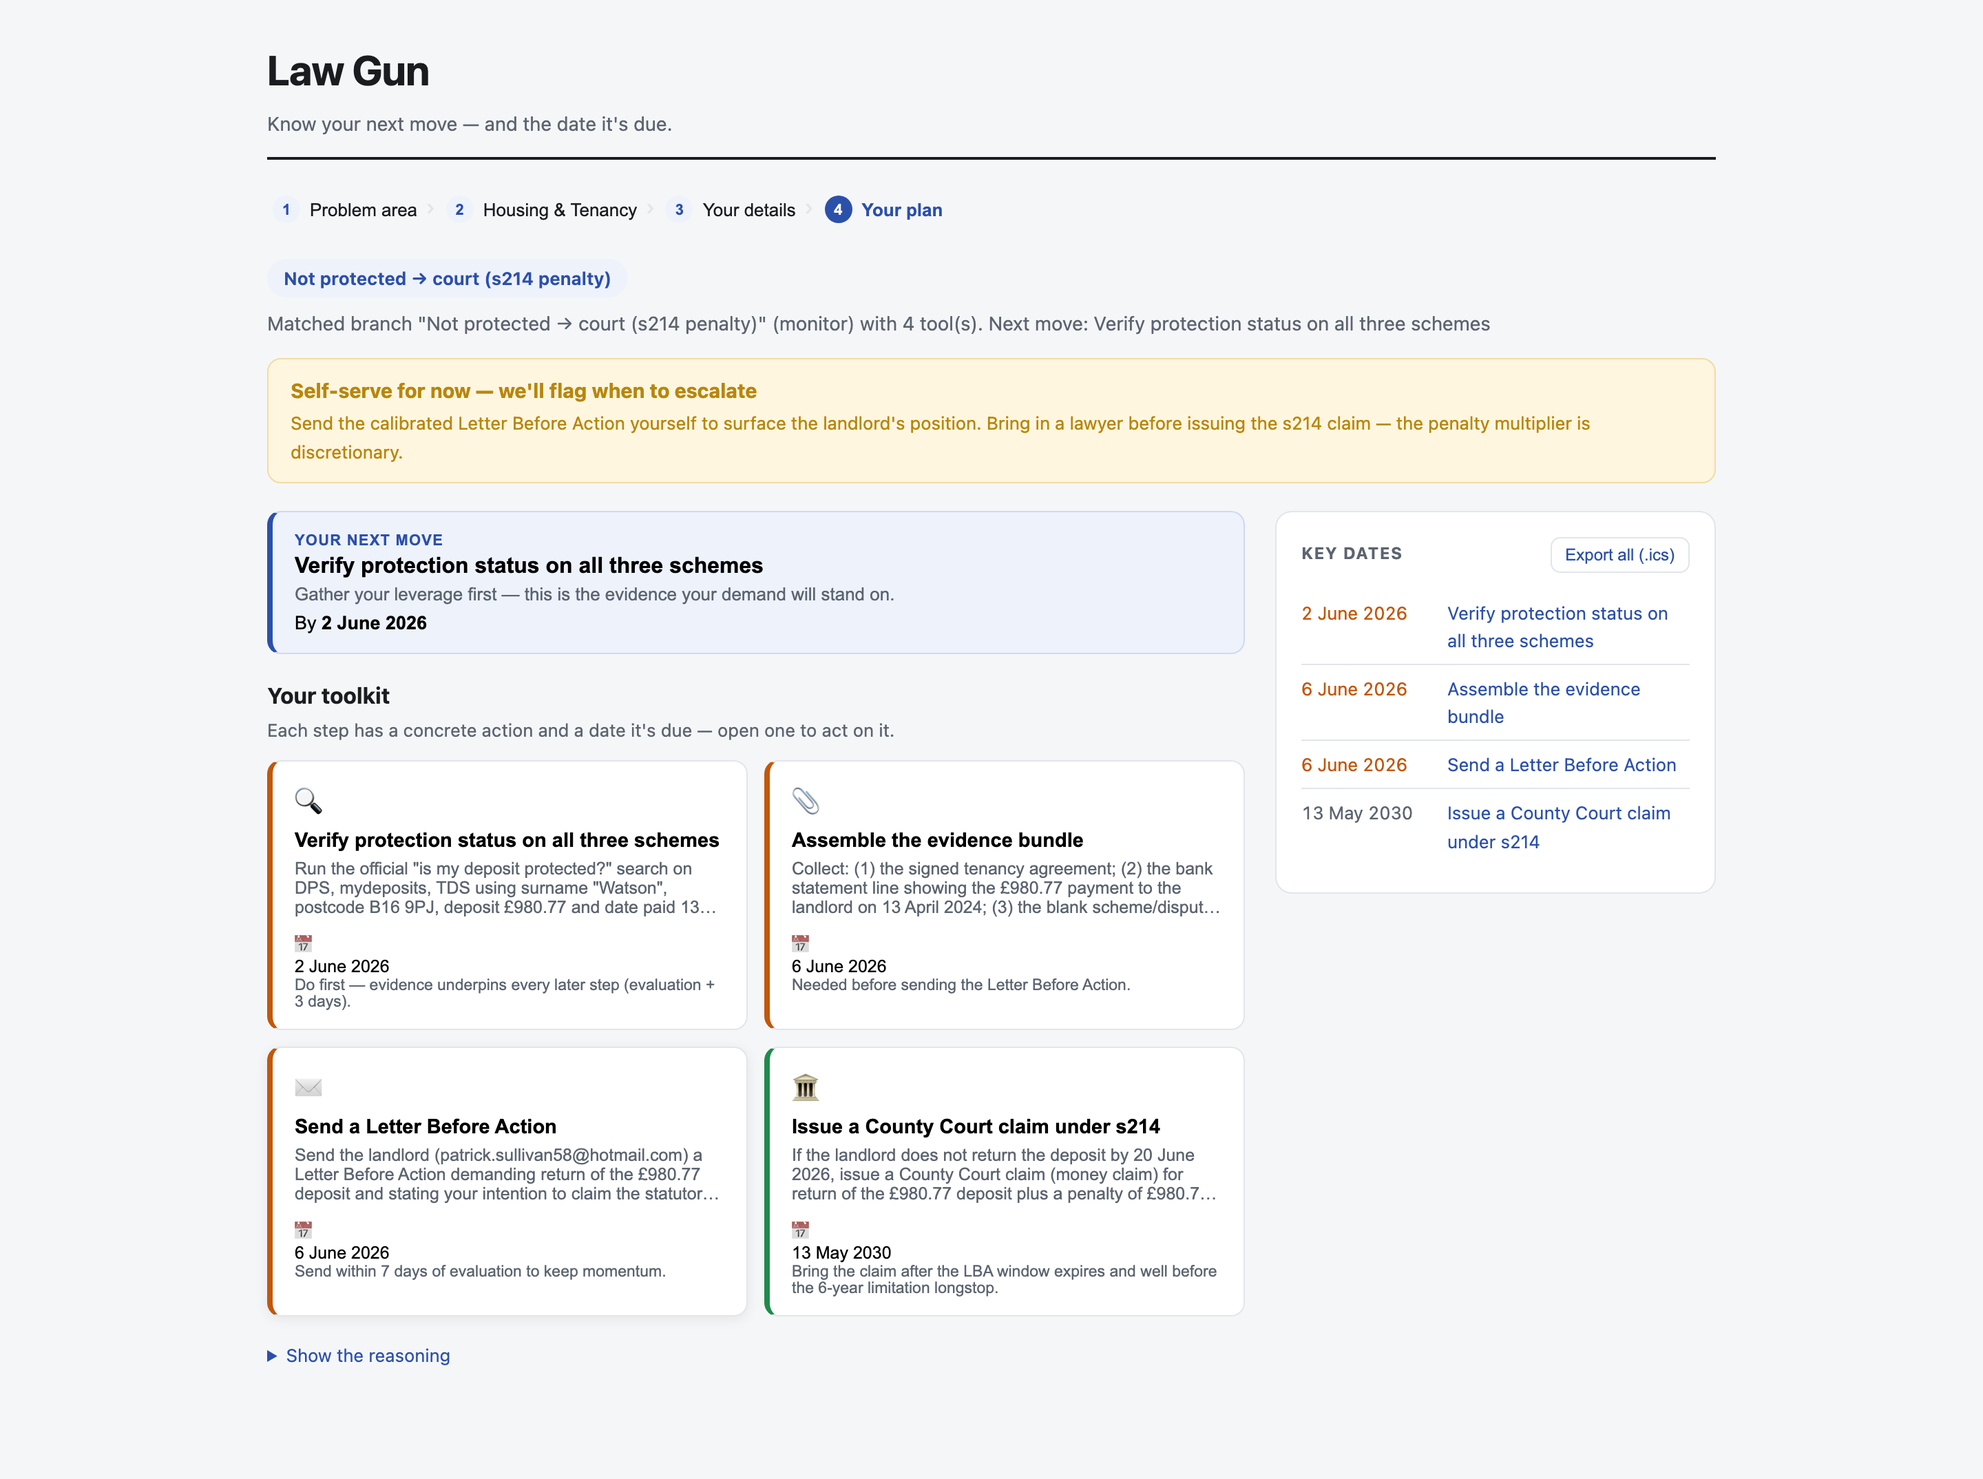
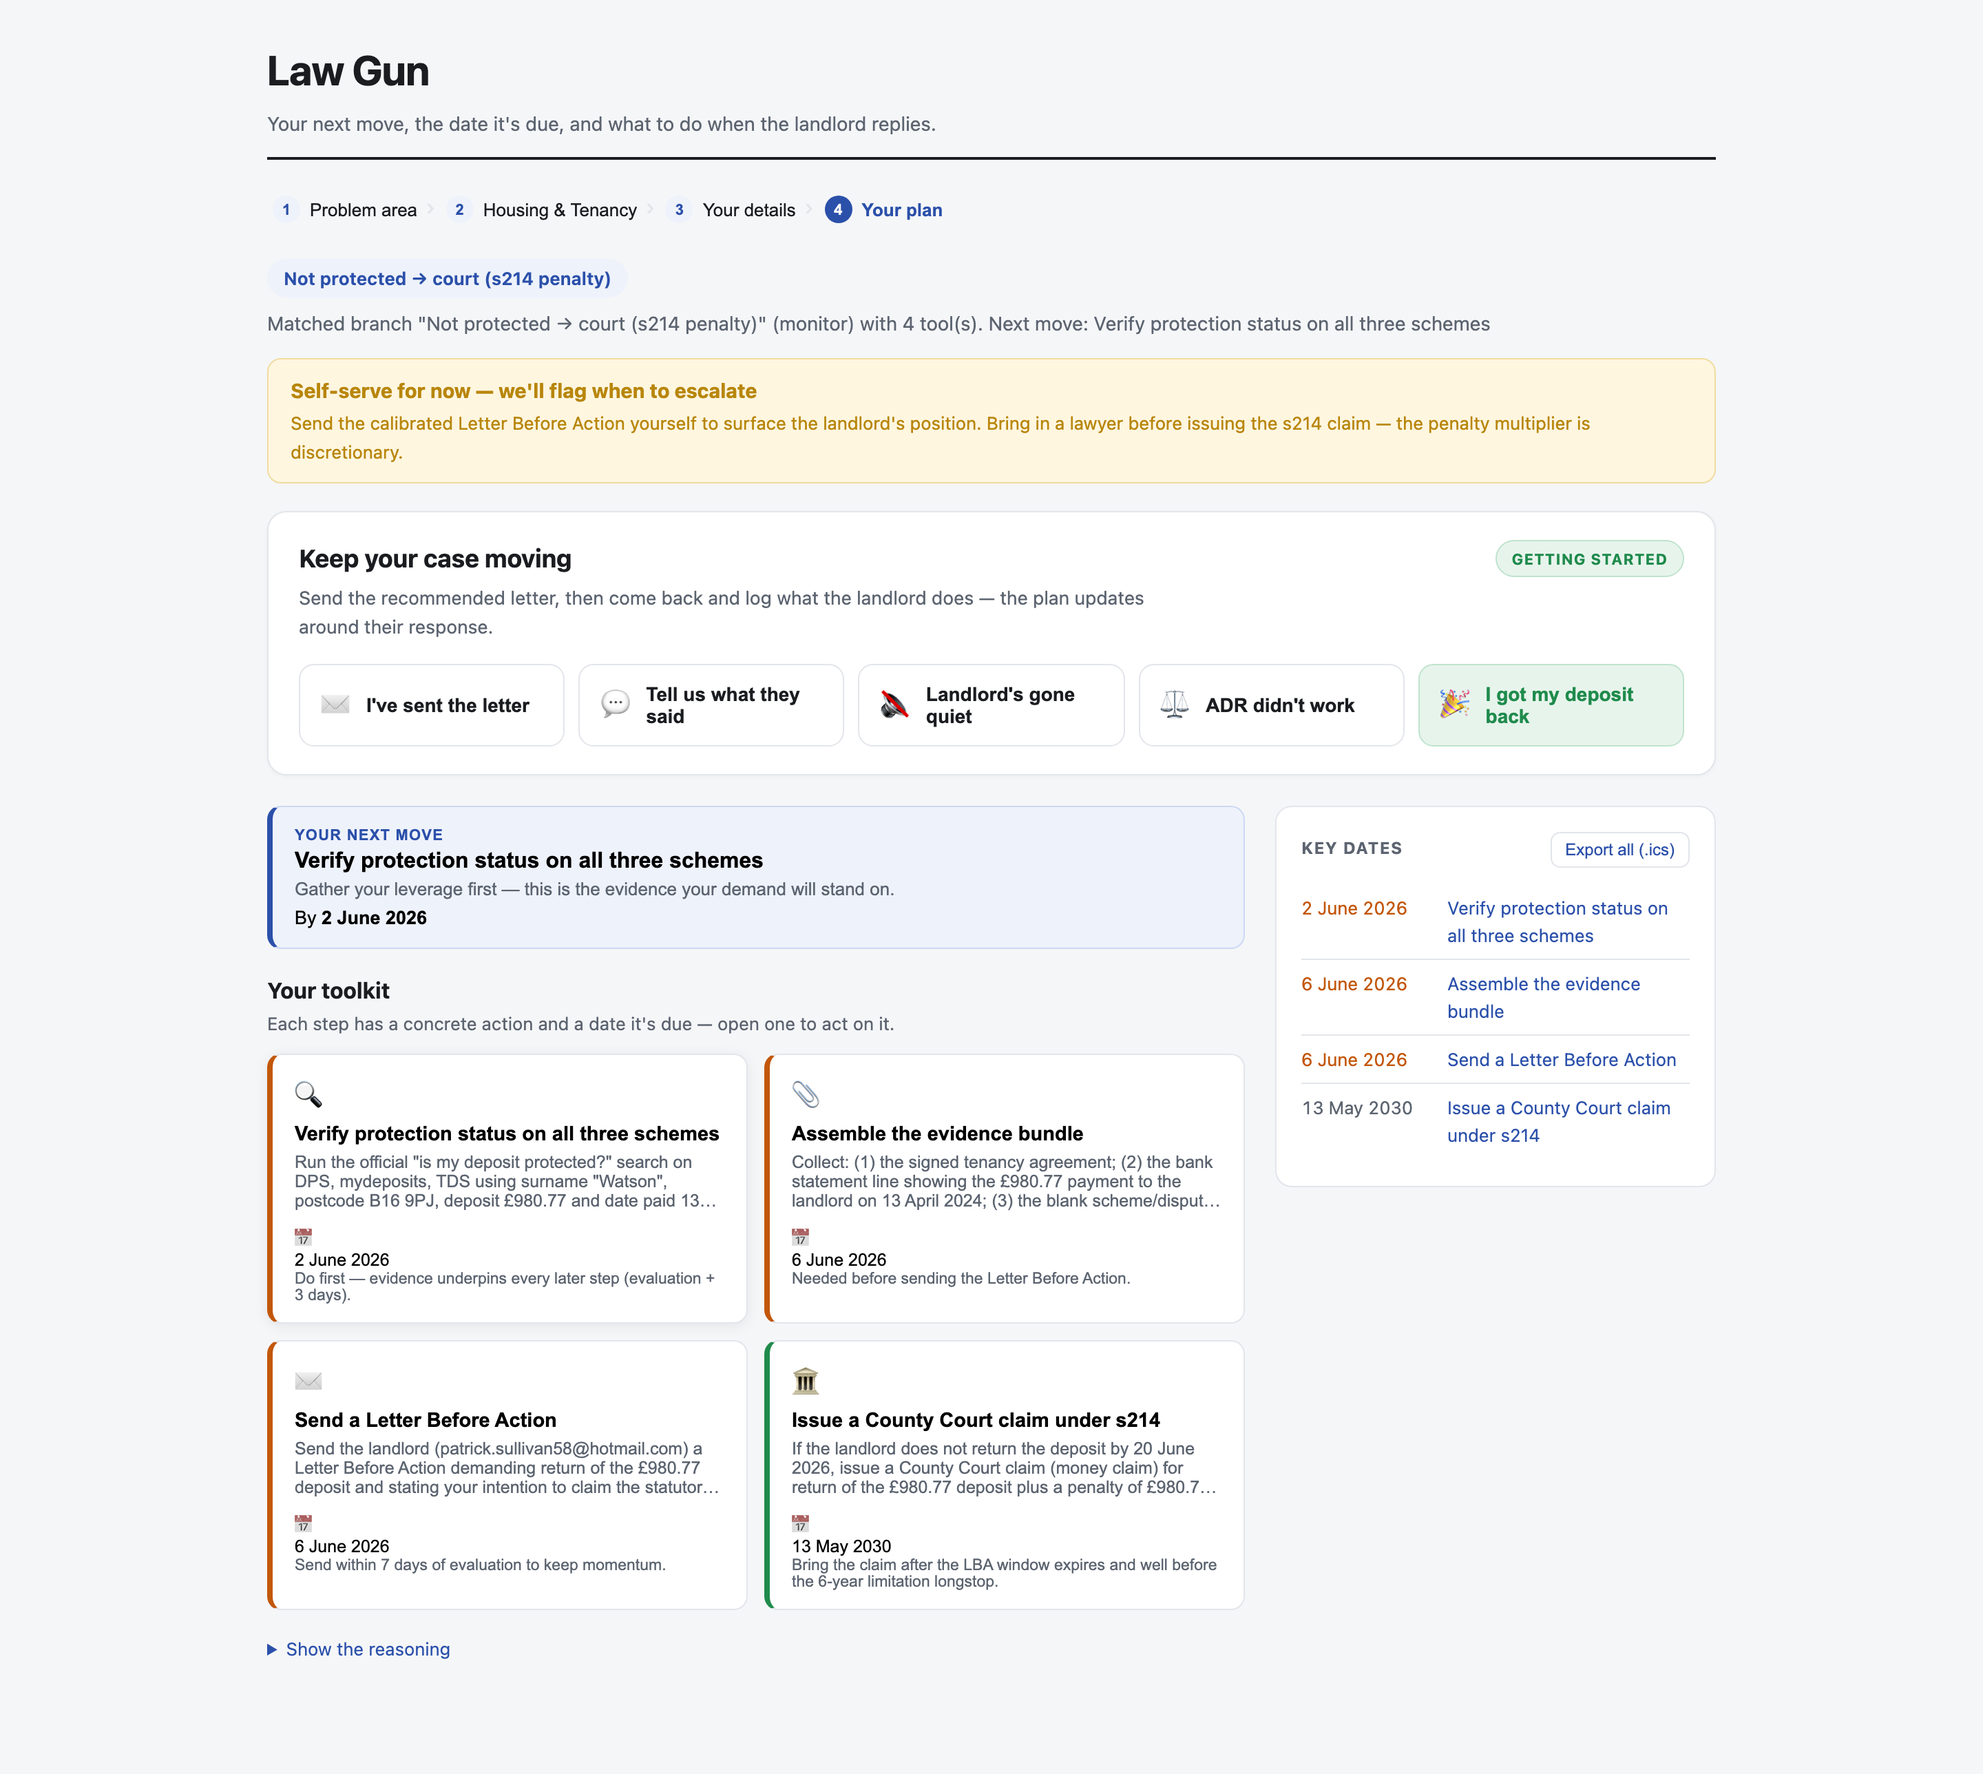
Fix up UI

diff --git a/recourse-poc/frontend/src/styles.css b/recourse-poc/frontend/src/styles.css
@@ -206,6 +206,23 @@ body {
 .prov.bad .prov-mark {
   color: var(--red);
 }
+/* Inline citation reference shown in the letter body */
+.prov-cite {
+  font: inherit;
+  font-size: 0.82em;
+  font-style: normal;
+  font-family: -apple-system, BlinkMacSystemFont, "Segoe UI", sans-serif;
+  color: var(--green);
+  background: none;
+  border: none;
+  padding: 0;
+  cursor: pointer;
+  white-space: nowrap;
+  vertical-align: baseline;
+}
+.prov-cite:hover {
+  text-decoration: underline;
+}
 
 /* Sidebar card */
 .sidebar {
@@ -496,11 +513,24 @@ body {
 .bool-opt { flex: 1; border: 1px solid var(--line); background: var(--paper); border-radius: 7px; padding: 8px; cursor: pointer; font: inherit; }
 .bool-opt.on { border-color: var(--accent); background: var(--accent-soft); color: var(--accent); font-weight: 650; }
 
-/* Uploader */
-.uploader { border: 1px dashed var(--line); border-radius: 10px; margin-bottom: 18px; }
-.uploader-toggle { width: 100%; text-align: left; border: none; background: none; padding: 12px 14px; cursor: pointer; font-size: 13.5px; font-weight: 600; color: var(--accent); }
-.uploader-body { padding: 0 14px 14px; }
-.uploader-msg { font-size: 13px; color: var(--green); }
+/* Uploader — prominent drop zone (the hero of intake) */
+.uploader {
+  display: flex; align-items: center; gap: 16px;
+  border: 2px dashed #cdd9f3; background: var(--accent-soft);
+  border-radius: 14px; padding: 18px 20px; margin-bottom: 20px; cursor: pointer;
+  transition: border-color 0.15s, box-shadow 0.15s;
+}
+.uploader:hover { border-color: var(--accent); box-shadow: 0 3px 14px rgba(43,80,170,0.12); }
+.uploader-icon { font-size: 34px; line-height: 1; flex: 0 0 auto; }
+.uploader-text { flex: 1; }
+.uploader-title { font-size: 16.5px; font-weight: 700; color: var(--accent); }
+.uploader-sub { font-size: 13px; color: var(--muted); margin-top: 3px; max-width: 620px; }
+.uploader-msg { font-size: 13.5px; color: var(--green); font-weight: 600; margin-top: 8px; }
+.uploader-msg.busy { color: var(--accent); }
+.uploader-cta { flex: 0 0 auto; background: var(--accent); color: #fff; border-radius: 8px; padding: 10px 18px; font-size: 14px; font-weight: 600; }
+
+/* "or fill it in yourself" divider under the uploader */
+.intake-or { text-align: center; color: var(--muted); font-size: 12.5px; text-transform: uppercase; letter-spacing: 0.6px; margin: 4px 0 14px; }
 
 /* Assessment */
 .assessment-head { margin-bottom: 14px; }
@@ -594,24 +624,31 @@ body {
 }
 
 /* ─────────────────────── Negotiation loop ─────────────────────── */
-.neg-panel { background: var(--paper); border: 1px solid var(--line); border-radius: 12px; padding: 16px 18px; margin-bottom: 20px; }
-.neg-head { display: flex; align-items: center; justify-content: space-between; }
-.neg-head h3 { margin: 0; font-size: 15px; }
-.neg-stage { font-size: 11px; font-weight: 700; text-transform: uppercase; letter-spacing: 0.5px; border-radius: 999px; padding: 3px 10px; background: var(--bg); color: var(--muted); border: 1px solid var(--line); }
+.neg-panel { background: var(--paper); border: 1px solid var(--line); border-radius: 14px; padding: 20px 22px; margin-bottom: 22px; box-shadow: 0 1px 3px rgba(0,0,0,0.04); }
+.neg-head { display: flex; align-items: flex-start; justify-content: space-between; gap: 12px; margin-bottom: 16px; }
+.neg-head h3 { margin: 0 0 4px; font-size: 18px; }
+.neg-stage { flex: 0 0 auto; font-size: 11px; font-weight: 700; text-transform: uppercase; letter-spacing: 0.5px; border-radius: 999px; padding: 4px 11px; background: var(--green-soft); color: var(--green); border: 1px solid #bfe3cd; }
 .neg-stage.stage-post_letter { background: #fff6e0; color: var(--amber); border-color: #f0dca0; }
-.neg-stage.stage-post_adr { background: #ffe9d6; color: #c2570a; }
-.neg-status-line { color: var(--muted); font-size: 13px; margin: 6px 0 12px; }
+.neg-stage.stage-post_adr { background: #ffe9d6; color: #c2570a; border-color: #f3c79b; }
+.neg-status-line { color: var(--muted); font-size: 13.5px; margin: 0; max-width: 640px; }
 .neg-status { display: flex; flex-direction: column; gap: 2px; border-radius: 8px; padding: 10px 14px; }
 .neg-status strong { font-size: 15px; }
 
-.awaiting-prompt { background: var(--accent-soft); border: 1px solid #cdd9f3; border-radius: 10px; padding: 12px 14px; margin-bottom: 12px; }
-.awaiting-prompt strong { display: block; margin-bottom: 8px; }
-.awaiting-actions { display: flex; gap: 8px; flex-wrap: wrap; }
+.awaiting-prompt { background: var(--accent-soft); border: 1px solid #cdd9f3; border-radius: 12px; padding: 14px 16px; margin-bottom: 14px; }
+.awaiting-prompt strong { display: block; margin-bottom: 10px; font-size: 15px; }
+.awaiting-actions { display: flex; gap: 10px; flex-wrap: wrap; }
 
-.neg-actions { display: flex; flex-wrap: wrap; gap: 8px; }
-.ghost-btn { border: 1px solid var(--line); background: var(--paper); color: var(--ink); border-radius: 8px; padding: 8px 12px; font-size: 13px; cursor: pointer; }
-.ghost-btn:hover { border-color: var(--accent); color: var(--accent); }
-.ghost-btn.good:hover { border-color: var(--green); color: var(--green); }
+.neg-actions { display: grid; grid-template-columns: repeat(auto-fit, minmax(168px, 1fr)); gap: 10px; }
+.ghost-btn {
+  display: flex; align-items: center; gap: 10px; text-align: left;
+  border: 1px solid var(--line); background: var(--paper); color: var(--ink);
+  border-radius: 11px; padding: 13px 15px; font-size: 14px; font-weight: 600;
+  cursor: pointer; transition: border-color 0.15s, box-shadow 0.15s, transform 0.05s;
+}
+.ghost-btn .ico { font-size: 21px; line-height: 1; }
+.ghost-btn:hover { border-color: var(--accent); box-shadow: 0 3px 12px rgba(43,80,170,0.12); transform: translateY(-1px); }
+.ghost-btn.good { border-color: #bfe3cd; background: var(--green-soft); color: var(--green); }
+.ghost-btn.good:hover { border-color: var(--green); box-shadow: 0 3px 12px rgba(31,139,76,0.16); }
 .primary-btn.full { width: 100%; margin-top: 10px; }
 
 /* Response logger */

diff --git a/recourse-poc/frontend/src/components/DocUploadAccelerator.tsx b/recourse-poc/frontend/src/components/DocUploadAccelerator.tsx
@@ -30,19 +30,20 @@ interface Props {
 }
 
 export default function DocUploadAccelerator({ domain, onExtracted }: Props) {
-  const [open, setOpen] = useState(false);
   const [busy, setBusy] = useState(false);
   const [msg, setMsg] = useState<string | null>(null);
+  const [count, setCount] = useState(0);
 
   async function onFiles(files: FileList | null) {
     if (!files || files.length === 0) return;
     setBusy(true);
     setMsg(null);
+    setCount(files.length);
     try {
       const docs = await Promise.all(Array.from(files).map(toDocInput));
       const result = await extractFacts(domain, docs);
       onExtracted(result.facts);
-      setMsg(`Pre-filled from ${docs.length} document${docs.length > 1 ? "s" : ""} (${result.provider}). Check the answers below.`);
+      setMsg(`✓ Read ${docs.length} document${docs.length > 1 ? "s" : ""} and filled in your answers below — have a quick check.`);
     } catch (e) {
       setMsg("Couldn't read those documents — please fill the form in manually. " + String(e));
     } finally {
@@ -51,21 +52,27 @@ export default function DocUploadAccelerator({ domain, onExtracted }: Props) {
   }
 
   return (
-    <div className="uploader">
-      <button type="button" className="uploader-toggle" onClick={() => setOpen((o) => !o)}>
-        {open ? "▾" : "▸"} Have the paperwork? Upload it to fill this in automatically
-      </button>
-      {open && (
-        <div className="uploader-body">
-          <p className="field-help">
-            Add your tenancy agreement, a bank statement showing the deposit, and any deposit-scheme search
-            screenshots. We read them and pre-fill the answers for you to check — nothing is sent anywhere.
-          </p>
-          <input type="file" multiple accept=".pdf,.png,.jpg,.jpeg" disabled={busy} onChange={(e) => onFiles(e.target.files)} />
-          {busy && <div className="loading">Reading your documents…</div>}
-          {msg && <p className="uploader-msg">{msg}</p>}
+    <label className="uploader" htmlFor="doc-upload">
+      <div className="uploader-icon">📎</div>
+      <div className="uploader-text">
+        <div className="uploader-title">Skip the typing — upload your paperwork</div>
+        <div className="uploader-sub">
+          Drop your tenancy agreement, a bank statement showing the deposit, and your deposit-scheme
+          screenshots. Law Gun reads them and fills this in for you.
         </div>
-      )}
-    </div>
+        {busy && <div className="uploader-msg busy">Reading your {count} document{count > 1 ? "s" : ""}…</div>}
+        {msg && <div className="uploader-msg">{msg}</div>}
+      </div>
+      <input
+        id="doc-upload"
+        type="file"
+        multiple
+        accept=".pdf,.png,.jpg,.jpeg"
+        disabled={busy}
+        onChange={(e) => onFiles(e.target.files)}
+        style={{ display: "none" }}
+      />
+      <span className="uploader-cta">Choose files</span>
+    </label>
   );
 }

diff --git a/recourse-poc/frontend/src/components/NegotiationPanel.tsx b/recourse-poc/frontend/src/components/NegotiationPanel.tsx
@@ -41,20 +41,23 @@ export default function NegotiationPanel({ neg }: { neg: NegotiationApi }) {
   return (
     <div className="neg-panel">
       <div className="neg-head">
-        <h3>Your negotiation</h3>
+        <div>
+          <h3>Keep your case moving</h3>
+          <p className="neg-status-line">{describe(neg)}</p>
+        </div>
         <span className={"neg-stage stage-" + neg.stage}>{STAGE_LABEL[neg.stage]}</span>
       </div>
-      <p className="neg-status-line">{describe(neg)}</p>
 
       {neg.awaiting && (
         <div className="awaiting-prompt">
           <strong>Has the landlord replied?</strong>
           <div className="awaiting-actions">
             <button type="button" className="primary-btn" onClick={() => setLogging(true)}>
-              Log their reply
+              Yes — log their reply
             </button>
             <button type="button" className="ghost-btn" onClick={neg.onNoResponse}>
-              No — nothing by {formatDate(neg.awaiting.dueBy)}
+              <span className="ico">🔇</span>
+              <span>No reply by {formatDate(neg.awaiting.dueBy)}</span>
             </button>
           </div>
         </div>
@@ -63,22 +66,27 @@ export default function NegotiationPanel({ neg }: { neg: NegotiationApi }) {
       <div className="neg-actions">
         {neg.stage === "initial" && !neg.awaiting && (
           <button type="button" className="ghost-btn" onClick={neg.onSent}>
-            I've sent my letter / demand
+            <span className="ico">✉</span>
+            <span>I've sent the letter</span>
           </button>
         )}
         {!neg.awaiting && (
           <button type="button" className="ghost-btn" onClick={() => setLogging(true)}>
-            Log the landlord's reply
+            <span className="ico">💬</span>
+            <span>Tell us what they said</span>
           </button>
         )}
         <button type="button" className="ghost-btn" onClick={neg.onNoResponse}>
-          Landlord went silent
+          <span className="ico">🔇</span>
+          <span>Landlord's gone quiet</span>
         </button>
         <button type="button" className="ghost-btn" onClick={neg.onAdrUnresolved}>
-          ADR didn't resolve it
+          <span className="ico">⚖</span>
+          <span>ADR didn't work</span>
         </button>
         <button type="button" className="ghost-btn good" onClick={() => neg.onResolve()}>
-          Deposit returned ✓
+          <span className="ico">🎉</span>
+          <span>I got my deposit back</span>
         </button>
       </div>
 

diff --git a/recourse-poc/frontend/src/components/Letter.tsx b/recourse-poc/frontend/src/components/Letter.tsx
@@ -60,6 +60,12 @@ function parseBold(str: string, keyBase: string): ReactNode[] {
   );
 }
 
+/** "Housing Act 2004, s.213(3)" → "s.213(3)" for a compact inline citation. */
+function shortCite(citation: string): string {
+  const m = citation.match(/s\.\S+/);
+  return m ? m[0] : citation;
+}
+
 function inline(
   text: string,
   claims: GroundedClaim[],
@@ -72,10 +78,17 @@ function inline(
       const c = seg.claim;
       const cls = "prov" + (c.verified ? " ok" : " bad") + (activeId === c.claim_id ? " active" : "");
       return (
-        <button key={`${keyBase}-c${i}`} className={cls} onClick={() => onClick(c)} title={c.citation}>
-          {seg.text}
-          <sup className="prov-mark">{c.verified ? "✓" : "✗"}</sup>
-        </button>
+        <Fragment key={`${keyBase}-c${i}`}>
+          <button className={cls} onClick={() => onClick(c)} title={c.citation}>
+            {seg.text}
+            <sup className="prov-mark">{c.verified ? "✓" : "✗"}</sup>
+          </button>
+          {c.verified && (
+            <button className="prov-cite" onClick={() => onClick(c)} title={`View ${c.citation}`}>
+              {" "}({shortCite(c.citation)})
+            </button>
+          )}
+        </Fragment>
       );
     }
     return <Fragment key={`${keyBase}-s${i}`}>{parseBold(seg.text, `${keyBase}-s${i}`)}</Fragment>;

diff --git a/Tools/src/LawGunDemo.tsx b/Tools/src/LawGunDemo.tsx
@@ -74,8 +74,8 @@ const Scenes: React.FC = () => (
     <Sequence durationInFrames={75}><TitleScene /></Sequence>
     <Sequence from={75} durationInFrames={150}><Shot file="screens/01-landing.png" h={1200} pan={-110} dur={150} /></Sequence>
     <Sequence from={225} durationInFrames={180}><Shot file="screens/03-intake.png" h={1983} pan={-820} dur={180} /></Sequence>
-    <Sequence from={405} durationInFrames={210}><Shot file="screens/04-plan.png" h={1432} pan={-340} dur={210} /></Sequence>
-    <Sequence from={615} durationInFrames={210}><Shot file="screens/05-letter.png" h={3448} pan={-760} dur={210} /></Sequence>
+    <Sequence from={405} durationInFrames={210}><Shot file="screens/04-plan.png" h={1717} pan={-620} dur={210} /></Sequence>
+    <Sequence from={615} durationInFrames={210}><Shot file="screens/05-letter.png" h={3672} pan={-820} dur={210} /></Sequence>
     <Sequence from={825} durationInFrames={270}><Shot file="screens/06-drawer.png" h={1200} pan={-110} dur={270} /></Sequence>
     <Sequence from={1095} durationInFrames={90}><OutroScene /></Sequence>
   </AbsoluteFill>

diff --git a/recourse-poc/frontend/src/components/IntakeForm.tsx b/recourse-poc/frontend/src/components/IntakeForm.tsx
@@ -50,6 +50,7 @@ export default function IntakeForm({ schema, domain, onSubmit }: Props) {
       {schema.intro && <p className="section-sub">{schema.intro}</p>}
 
       <DocUploadAccelerator domain={domain} onExtracted={prefill} />
+      <div className="intake-or">or fill it in yourself</div>
 
       {groups.map((g) => (
         <fieldset key={g.name || "_"} className="intake-group">
